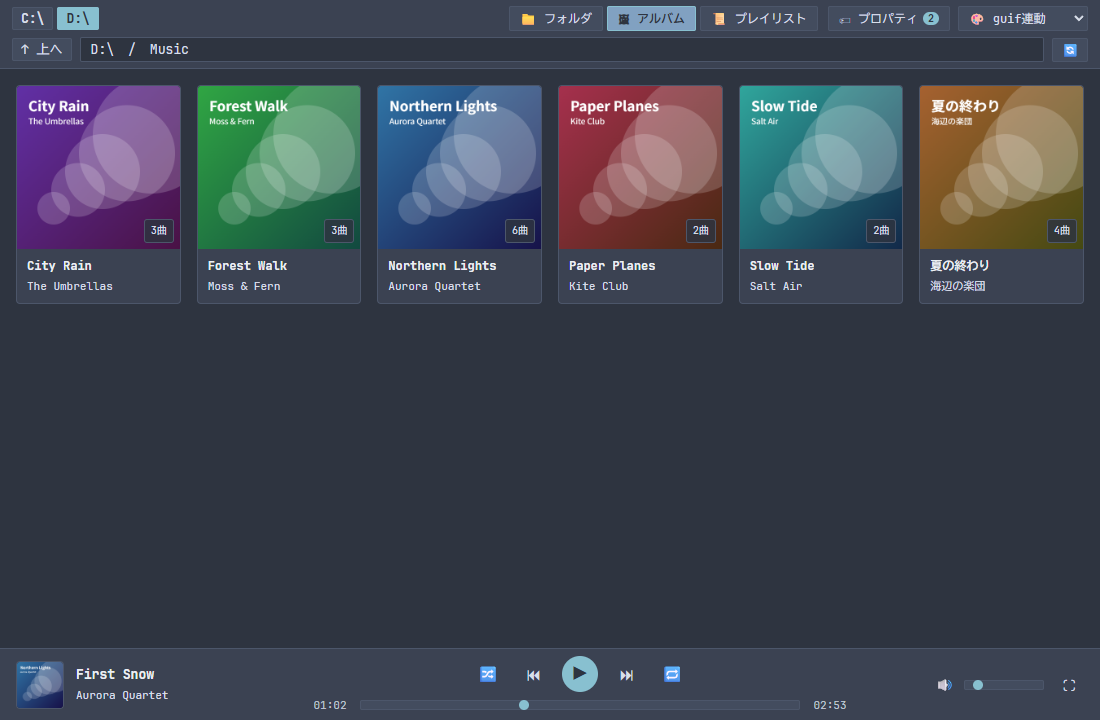
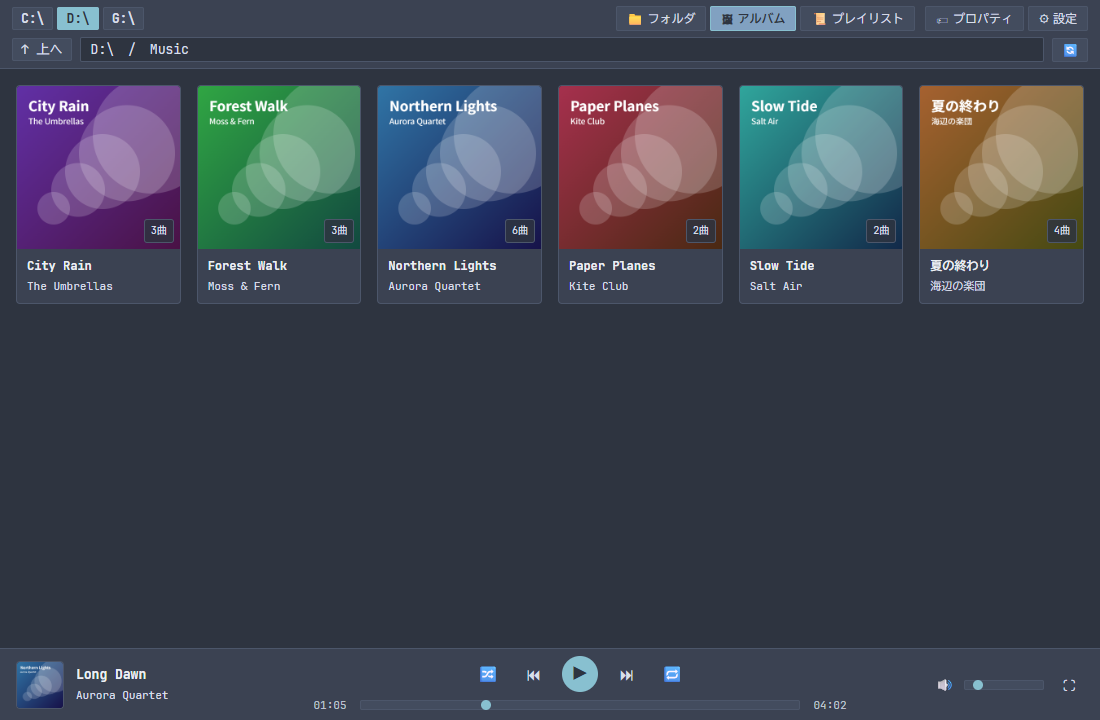
docs: 画面写真を撮り直し、README に追加した機能を載せる
フォルダービュー、アルバムビュー、タグの一括編集を今の画面で撮り直し、
詳細プレーヤー(再生速度としおり)としおりの一覧の写真を加える。
README の機能の一覧とキーの表に、続きから聴く、しおり、再生速度、Windows のメディア操作を加える。

diff --git a/README.md b/README.md
@@ -19,14 +19,22 @@
 - **安全な保存**: 一時コピーへ書き込んで音声とタグを確認してから、元のファイルと置き換えます。失敗しても元のファイルは変わりません。
 - **アルバムビュー**: フォルダーごとのジャケットを一覧で表示します。
 - **プレイリスト**: 作成、追加、削除ができます。
+- **続きから聴く**: フォルダーを開くと、最後に聴いていた曲の続きから再生するボタンが出ます。曲ごとの再生位置も覚えます。
+- **しおり**: 曲の好きな位置にしおりを挟み、あとでその位置から再生できます。
+- **再生速度**: 0.8 倍から 2.0 倍まで、音の高さを変えずに速さを変えられます。
+- **Windows のメディア操作**: 曲名とジャケットを音量の表示やロック画面に出し、メディアキーやヘッドセットのボタンで操作できます。
 - **シャッフルとリピート**: 全曲を重複なく流すシャッフル、1 曲リピート、全曲リピートがあります。
 - **キーボード操作**: 一覧の移動、範囲選択、再生の操作、ビューの切り替えをキーボードだけで行えます。
-- **テーマ**: Nord、Default、Monokai、Catppuccin、Solarized、Light から選べます。guif の設定に合わせることもできます。
+- **テーマと文字の大きさ**: Nord、Default、Monokai、Catppuccin、Solarized、Light から選べます。guif の設定に合わせることもできます。文字の大きさは 4 段階です。
 
 <table>
   <tr>
     <td><img src="docs/images/artwork-view.png" alt="アルバムビュー"></td>
     <td><img src="docs/images/tag-editor.png" alt="タグの一括編集"></td>
+  </tr>
+  <tr>
+    <td><img src="docs/images/player-detail.png" alt="詳細プレーヤー(再生速度としおり)"></td>
+    <td><img src="docs/images/bookmarks.png" alt="しおりの一覧"></td>
   </tr>
 </table>
 
@@ -76,6 +84,8 @@ npm run tauri build
 | `Ctrl+→` / `Ctrl+←` | 次の曲 / 前の曲 |
 | `Alt+→` / `Alt+←` | 5 秒進む / 5 秒戻る |
 | `Ctrl+1` / `Ctrl+2` / `Ctrl+3` | フォルダー / アルバム / プレイリストのビュー |
+| `[` / `]` | 再生速度を遅く / 速く |
+| `B` | 今の位置にしおりを挟む |
 | `Shift` + 移動キー | 範囲選択 |
 | `Ctrl+S` | タグの保存 |
 
